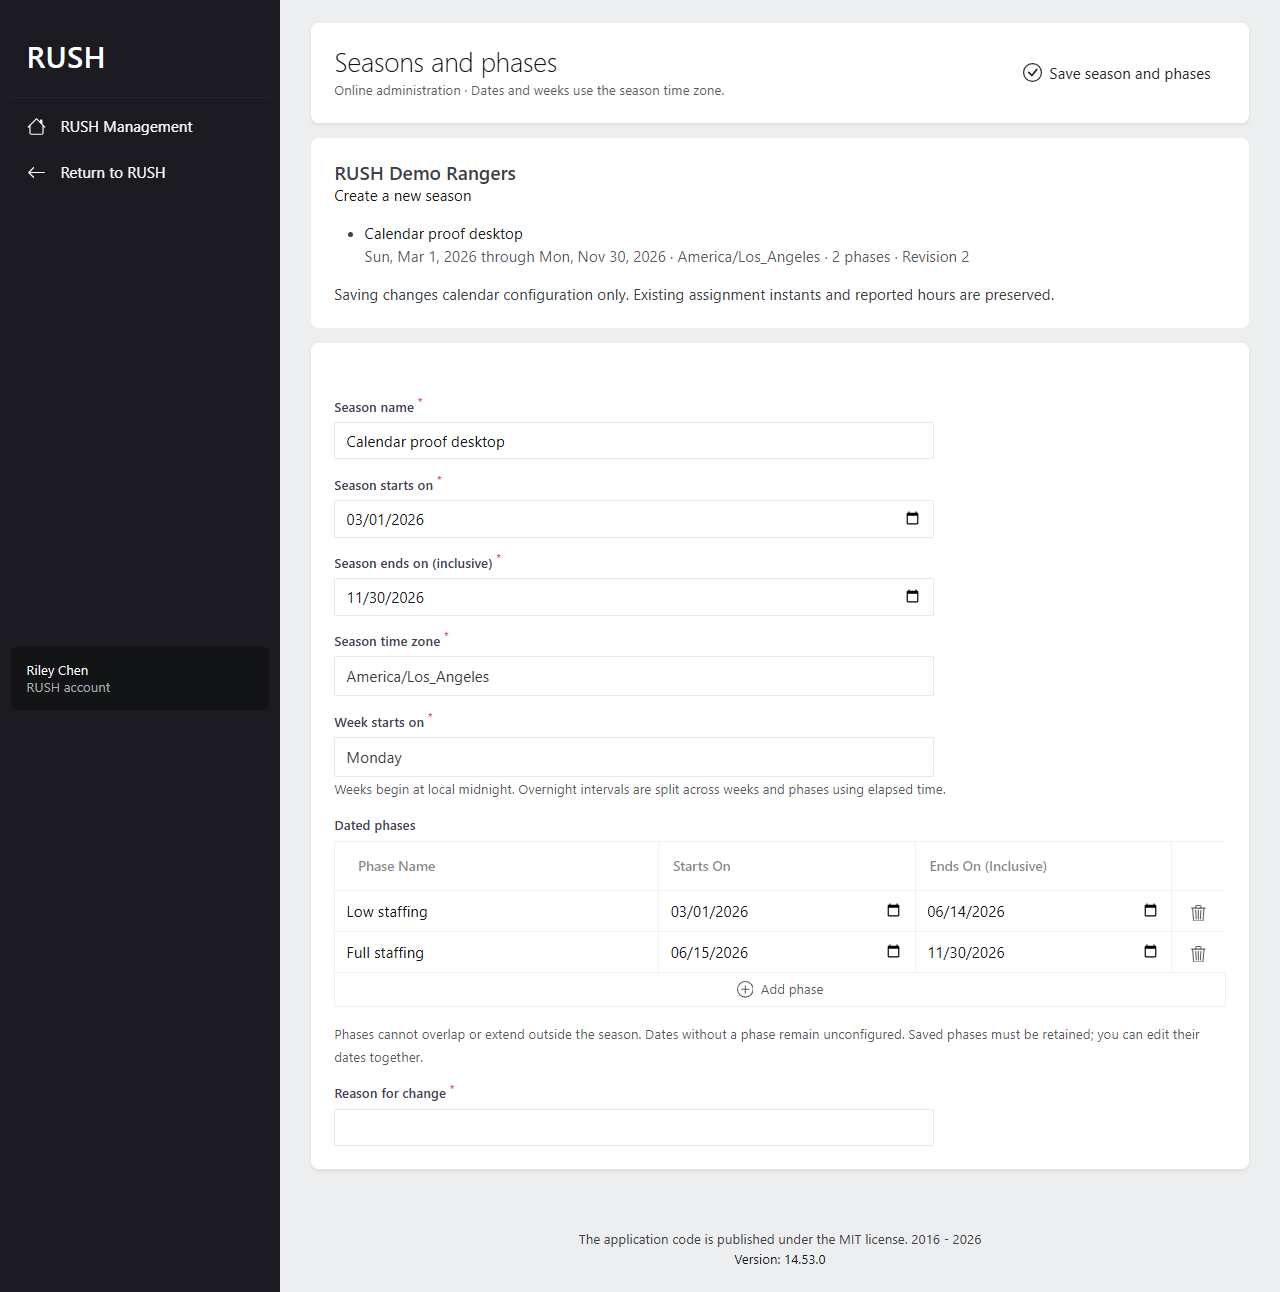
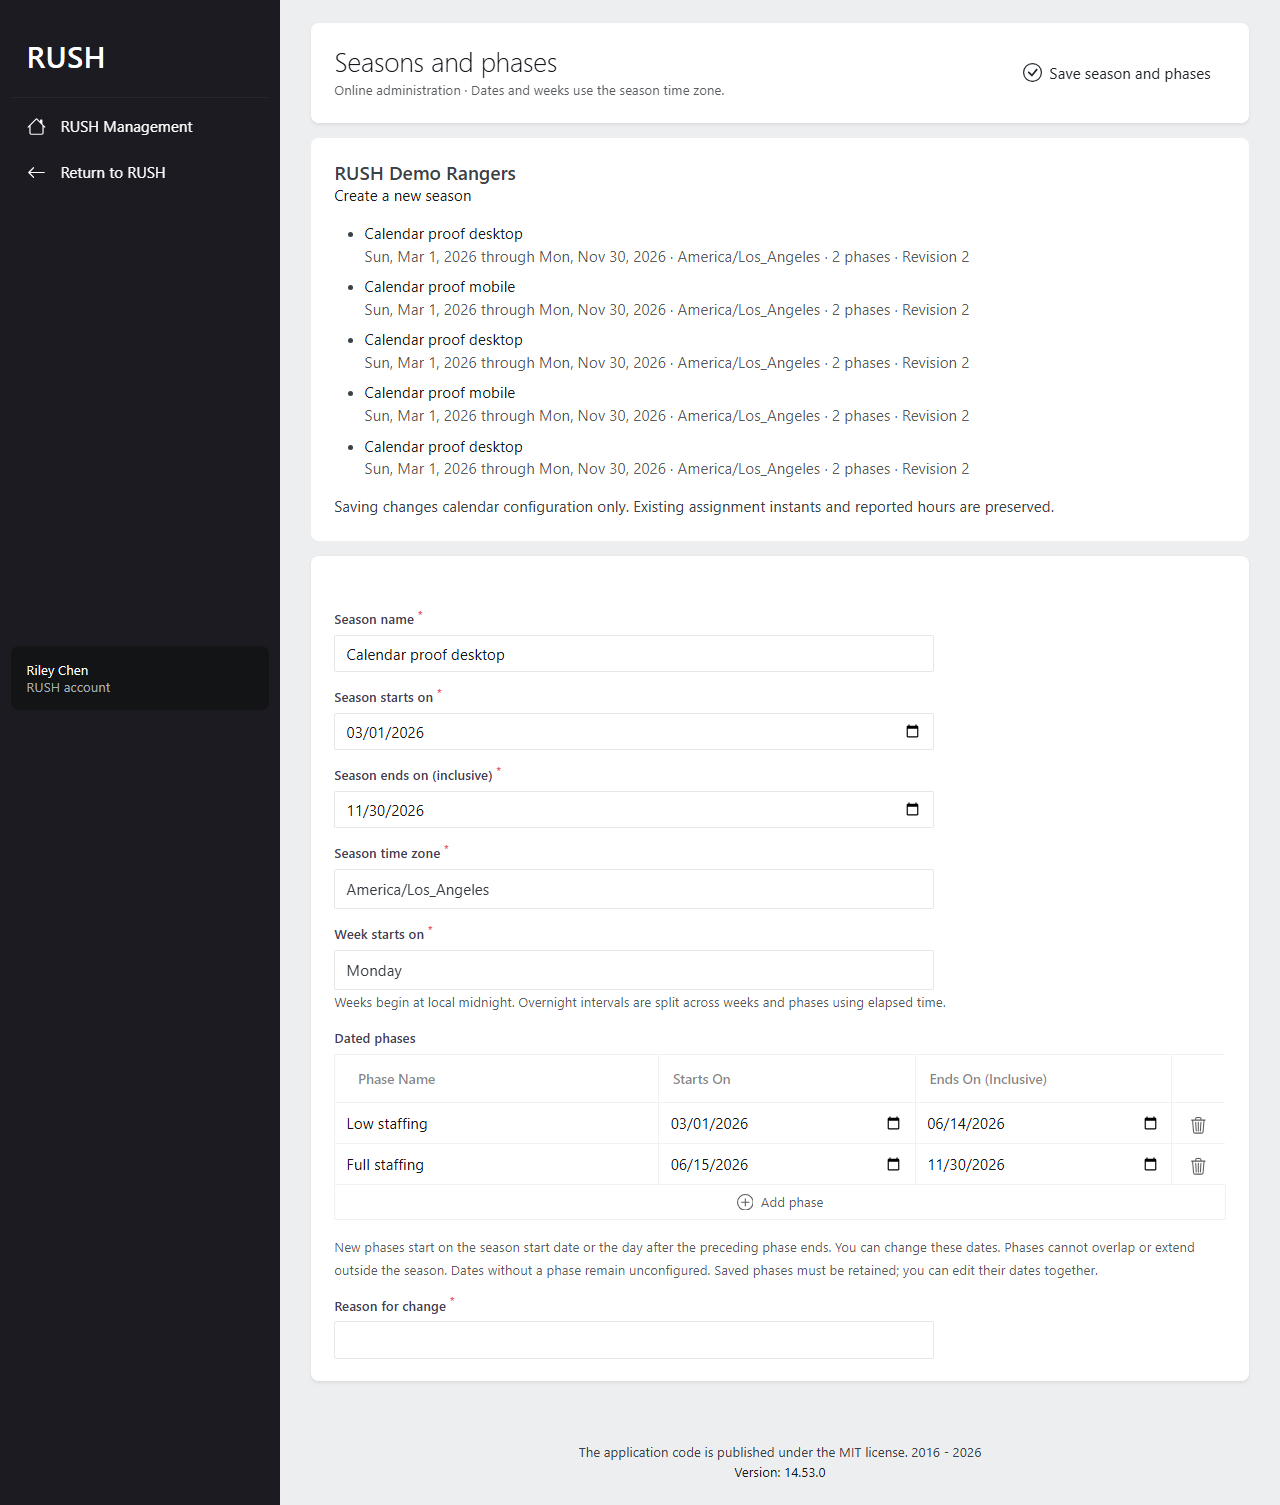
feat(season): suggest start dates for new phases
Default the first phase to the season start and later phases to the day
following the preceding inclusive end. Keep suggestions editable, preserve
existing input, and leave unavailable or out-of-season suggestions blank.
Use calendar-day arithmetic independent of browser DST and clean up the
observer when Orchid navigates away.

Refs: RUSH-015
Requirements: R-01, R-11
Tests: php vendor/bin/pest tests/Feature/SeasonConfigurationTest.php --compact (18 passed, 108 assertions); npx playwright test --config playwright.integration.config.ts seasons.spec.ts (4 passed); php vendor/bin/pint --dirty --format agent (passed); npx eslint e2e/integration/seasons.spec.ts (passed); npx vue-tsc --noEmit (passed); docker compose build server (passed)

diff --git a/client/e2e/integration/seasons.spec.ts b/client/e2e/integration/seasons.spec.ts
@@ -2,10 +2,9 @@ import { test, expect } from '@playwright/test';
 import { mkdir } from 'node:fs/promises';
 import type { SessionIdentity } from '../../src/data/api/session';
 
-test('Management configures seasons and phases with validation and stale-edit recovery', async ({
-  page,
-  context,
-}) => {
+test.use({ timezoneId: 'America/Los_Angeles' });
+
+test.beforeEach(async ({ context }) => {
   test.setTimeout(90_000);
   await context.request.get('/sanctum/csrf-cookie');
   const cookie = (await context.cookies()).find((item) => item.name === 'XSRF-TOKEN');
@@ -26,6 +25,12 @@ test('Management configures seasons and phases with validation and stale-edit re
     login = await signIn();
   }
   expect(login.status()).toBe(200);
+});
+
+test('Management configures seasons and phases with validation and stale-edit recovery', async ({
+  page,
+  context,
+}) => {
   const identity = (await (await context.request.get('/api/v1/session')).json()) as SessionIdentity;
   const organization = identity.memberships[0]!.organization.id;
   await page.goto('/admin/main');
@@ -42,6 +47,9 @@ test('Management configures seasons and phases with validation and stale-edit re
     ['Full staffing', '2026-05-31', '2026-11-30'],
   ]) {
     await page.getByRole('link', { name: 'Add phase', exact: true }).click();
+    await expect(page.getByLabel('Phase starts on', { exact: true }).last()).toHaveValue(
+      name === 'Low staffing' ? '2026-03-01' : '2026-06-01',
+    );
     await page.getByRole('textbox', { name: 'Phase name', exact: true }).last().fill(name!);
     await page.getByLabel('Phase starts on', { exact: true }).last().fill(start!);
     await page.getByLabel('Phase ends on', { exact: true }).last().fill(end!);
@@ -94,4 +102,66 @@ test('Management configures seasons and phases with validation and stale-edit re
     fullPage: true,
   });
   await test.info().attach('season-configuration', { body: screenshot, contentType: 'image/png' });
+  // Defaults also work when extending an existing season after save/reload.
+  await page.getByLabel('Phase ends on', { exact: true }).last().fill('2026-11-29');
+  await page.getByRole('link', { name: 'Add phase', exact: true }).click();
+  await expect(page.getByLabel('Phase starts on', { exact: true }).last()).toHaveValue(
+    '2026-11-30',
+  );
+  await expect(page.getByLabel('Phase starts on', { exact: true }).nth(1)).toHaveValue(
+    '2026-06-15',
+  );
+});
+
+test('New phase dates follow calendar boundaries without changing existing input', async ({
+  page,
+}) => {
+  await page.goto('/admin/main');
+  await page.getByRole('link', { name: /Seasons and phases —/ }).click();
+  const seasonStart = page.getByLabel('Season starts on', { exact: false });
+  const seasonEnd = page.getByLabel('Season ends on (inclusive)', { exact: false });
+  const starts = page.getByLabel('Phase starts on', { exact: true });
+  const ends = page.getByLabel('Phase ends on', { exact: true });
+  const add = page.getByRole('link', { name: 'Add phase', exact: true });
+  const remove = page.getByRole('link', { name: 'Remove row', exact: true });
+
+  await add.click();
+  await expect(starts.last()).toHaveValue('');
+  await remove.last().click();
+  await seasonStart.fill('2028-02-01');
+  await seasonEnd.fill('2029-01-31');
+  await add.click();
+  await expect(starts.last()).toHaveValue('2028-02-01');
+  await starts.first().fill('2028-02-03');
+  await ends.first().fill('2028-02-28');
+  await add.click();
+  await expect(starts.last()).toHaveValue('2028-02-29');
+  await ends.last().fill('2028-02-29');
+  await add.click();
+  await expect(starts.last()).toHaveValue('2028-03-01');
+
+  // A missing preceding end must not fall back to the season start and overlap it.
+  await add.click();
+  await expect(starts.last()).toHaveValue('');
+  await remove.last().click();
+  await ends.last().fill('2028-12-31');
+  await add.click();
+  await expect(starts.last()).toHaveValue('2029-01-01');
+
+  await ends.last().fill('2029-01-31');
+  await add.click();
+  await expect(starts.last()).toHaveValue('');
+  await remove.last().click();
+  // The preceding row is the current last row even after deletion.
+  await remove.last().click();
+  await ends.last().fill('2028-03-12');
+  await add.click();
+  await expect(starts.last()).toHaveValue('2028-03-13');
+  await seasonStart.fill('2028-02-02');
+  await ends.first().fill('2028-02-27');
+  await expect(starts.first()).toHaveValue('2028-02-03');
+  await expect(starts.nth(1)).toHaveValue('2028-02-29');
+  await ends.last().fill('2028-01-30');
+  await add.click();
+  await expect(starts.last()).toHaveValue('');
 });

diff --git a/server/resources/views/admin/seasons.blade.php b/server/resources/views/admin/seasons.blade.php
@@ -18,7 +18,7 @@
         .matrix[data-controller="matrix"] a { min-height: 44px; display: inline-flex; align-items: center; }
     }
 </style>
-<div class="bg-white rounded p-4 mb-3">
+<div class="bg-white rounded p-4 mb-3" data-controller="season-phase-defaults">
     <h2 class="h5">{{ $organization->name }}</h2>
     <a href="{{ route('platform.seasons', [$organization->id, 'new']) }}">Create a new season</a>
     <ul class="mt-3">
@@ -38,3 +38,47 @@
     {{ $seasons->links() }}
     <p class="mb-0">Saving changes calendar configuration only. Existing assignment instants and reported hours are preserved.</p>
 </div>
+
+@push('scripts')
+    <script>
+        window.application.register('season-phase-defaults', class extends window.Controller {
+            connect() {
+                this.form = this.element.closest('form');
+                const rows = this.form.querySelector('.matrix tbody');
+                this.observer = new MutationObserver((changes) => {
+                    for (const change of changes) {
+                        for (const row of change.addedNodes) {
+                            if (row instanceof HTMLTableRowElement && !row.classList.contains('add-row')) {
+                                this.defaultStart(row);
+                            }
+                        }
+                    }
+                });
+                this.observer.observe(rows, { childList: true });
+            }
+
+            disconnect() {
+                this.observer.disconnect();
+            }
+
+            defaultStart(row) {
+                const start = row.querySelector('input[name$="[starts_on]"]');
+                if (!start || start.value) return;
+
+                const seasonStart = this.form.elements.namedItem('configuration[starts_on]');
+                const seasonEnd = this.form.elements.namedItem('configuration[ends_on]');
+                const previousEnd = row.previousElementSibling?.querySelector('input[name$="[ends_on]"]');
+                // Date inputs expose UTC calendar days, independent of the browser's time zone or DST.
+                const suggestedDay = previousEnd ? previousEnd.valueAsNumber + 86400000 : seasonStart.valueAsNumber;
+                if (!Number.isFinite(suggestedDay)
+                    || suggestedDay < seasonStart.valueAsNumber
+                    || suggestedDay > seasonEnd.valueAsNumber) return;
+
+                const suggestedDate = new Date(suggestedDay).toISOString().slice(0, 10);
+                if (!/^\d{4}-\d{2}-\d{2}$/.test(suggestedDate)) return;
+                start.value = suggestedDate;
+                start.dispatchEvent(new Event('change', { bubbles: true }));
+            }
+        });
+    </script>
+@endpush

diff --git a/server/app/Orchid/Screens/SeasonScreen.php b/server/app/Orchid/Screens/SeasonScreen.php
@@ -73,7 +73,7 @@ class SeasonScreen extends Screen
                         'ends_on' => Input::make()->type('date')->set('aria-label', 'Phase ends on')->required(),
                         'id' => Input::make()->type('hidden'),
                     ])->maxRows(100)->addRowLabel('Add phase')
-                    ->help('Phases cannot overlap or extend outside the season. Dates without a phase remain unconfigured. Saved phases must be retained; you can edit their dates together.'),
+                    ->help('New phases start on the season start date or the day after the preceding phase ends. You can change these dates. Phases cannot overlap or extend outside the season. Dates without a phase remain unconfigured. Saved phases must be retained; you can edit their dates together.'),
                 Input::make('configuration.reason')->title('Reason for change')->required()->maxlength(500),
             ]),
         ];

diff --git a/docs/evidence/RUSH-015/README.md b/docs/evidence/RUSH-015/README.md
@@ -47,6 +47,31 @@ Captured from the successful desktop/mobile workflow using seeded fixture accoun
 and visually inspected: [desktop](desktop-season.png), [mobile](mobile-season.png).
 The browser test also attaches screenshots to its Playwright report for CI review.
 
+## Phase creation defaults follow-up
+
+R-01: Adding the first phase defaults its start to the entered season start;
+subsequent rows default to the calendar day after the preceding row's inclusive
+end. These are editable suggestions applied only when adding a row. Saved,
+manually entered and validation-recovered dates are preserved. Missing source
+dates and suggestions outside entered season bounds leave the new start blank.
+Calendar-day arithmetic uses date-input UTC values, independent of browser DST.
+No database, API, dependency or sync changes are required.
+
+- `php vendor/bin/pest tests/Feature/SeasonConfigurationTest.php --compact`:
+  **18 passed, 108 assertions**.
+- `npx playwright test --config playwright.integration.config.ts seasons.spec.ts`
+  from client: **4 passed**, desktop/mobile on isolated Laravel/SQLite, including
+  leap day, month/year/DST transitions, missing dates, season bounds, row removal,
+  editable defaults, saved-season extension, validation and stale-edit recovery.
+- `php vendor/bin/pint --dirty --format agent`, `npx eslint e2e/integration/seasons.spec.ts`,
+  `npx prettier --write e2e/integration/seasons.spec.ts`, and `npx vue-tsc --noEmit`:
+  **passed**. The initial sandboxed Pest run could not open its bootstrap;
+  the reported passing run used normal local filesystem access.
+
+The previous full CI run 38070577975 passed all four jobs, including **113 Pest
+tests / 776 assertions** and **26 production-stack E2E tests**. The phase-default
+follow-up adds two browser cases and requires a new CI run on the updated PR.
+
 ## Acceptance mapping
 
 | Criterion | Evidence |

diff --git a/docs/RUSH_V1_Implementation_Plan.md b/docs/RUSH_V1_Implementation_Plan.md
@@ -304,7 +304,9 @@ RUSH-017/037. See [ADR 0015](decisions/0015-season-calendar-policy.md),
 Pest covers invariants, authorization, audit/rollback, calendar edges and
 PostgreSQL concurrent managers; Playwright covers desktop/mobile Orchid forms,
 validation and stale input recovery. Orchid remains online; no Dexie or sync
-schema changes. Scenarios 1–2 retain their remaining owners, as do all nine
+schema changes. New phase rows suggest the season start or the day after the
+preceding inclusive phase end, with desktop/mobile regression coverage for
+calendar boundaries and preservation of entered dates. Scenarios 1–2 retain their remaining owners, as do all nine
 scenario assignments. Human review, required CI and merge remain necessary.
 
 ## 6. Milestone 4 — Schedule generation (RUSH-022–028)
